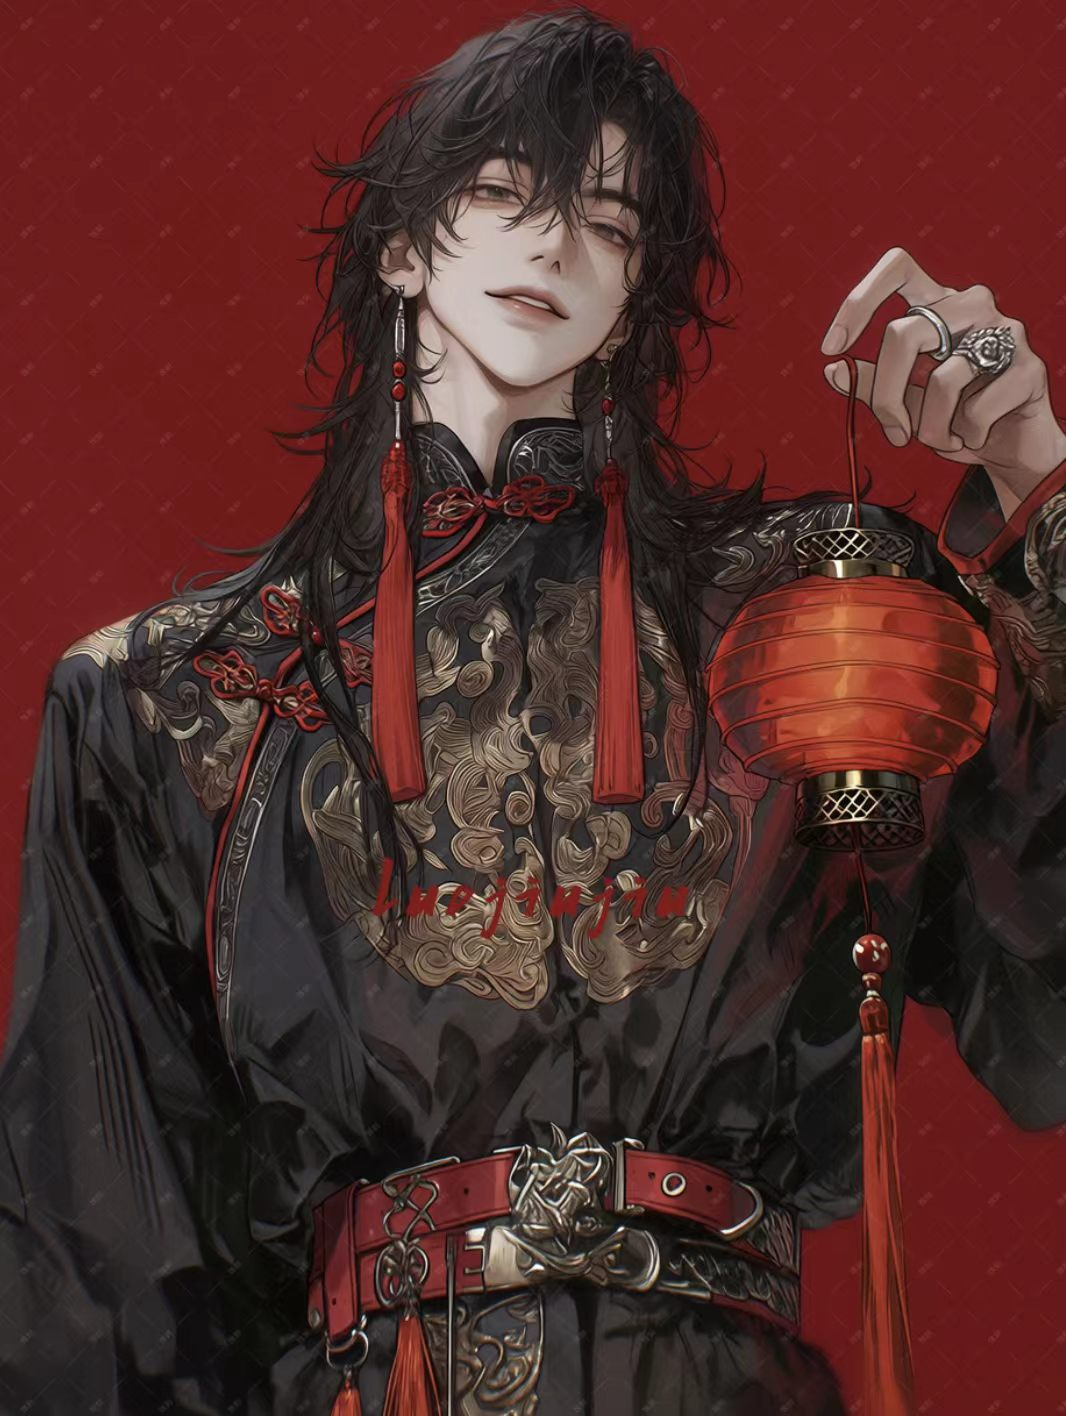
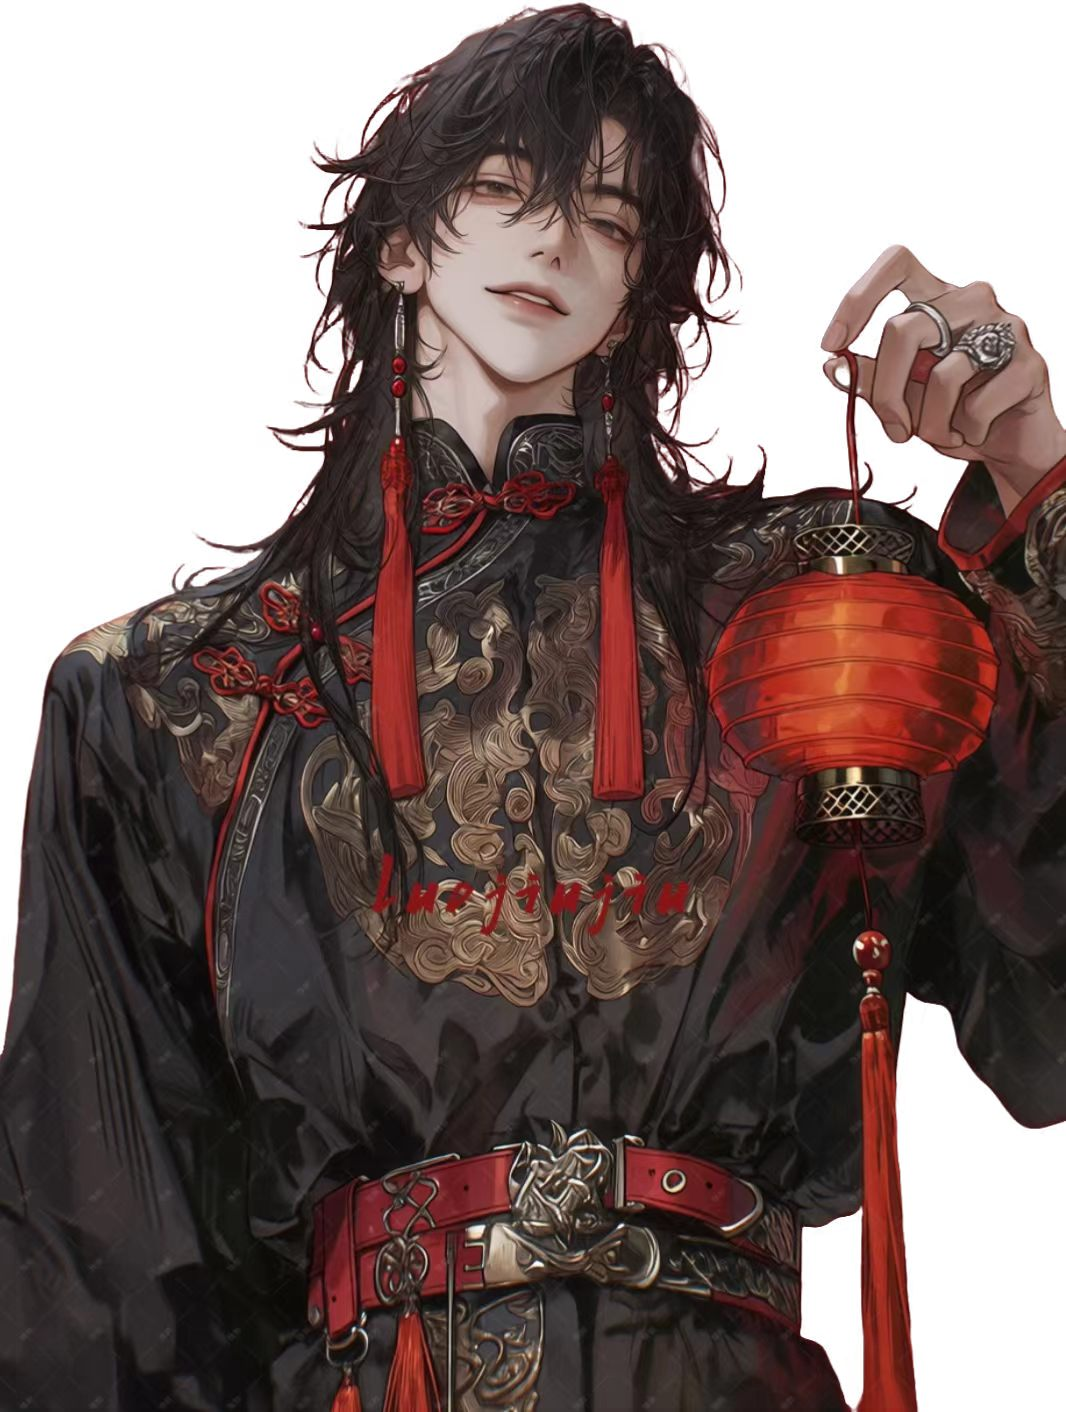
replace gaia portrait with cutout asset

diff --git a/src/App.css b/src/App.css
@@ -783,8 +783,8 @@ button {
 }
 
 .npc-gaia img {
-  object-position: 52% 20%;
-  transform: scale(1.18);
+  object-position: 50% 18%;
+  transform: scale(1.03);
 }
 
 .npc div {
